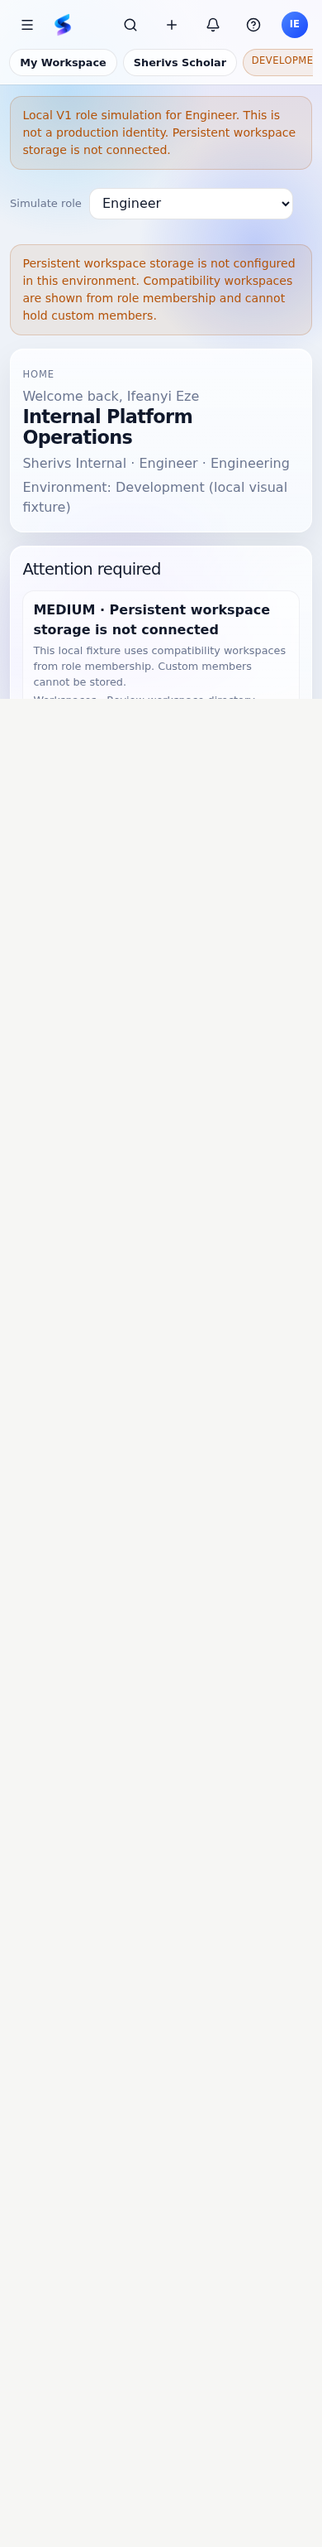
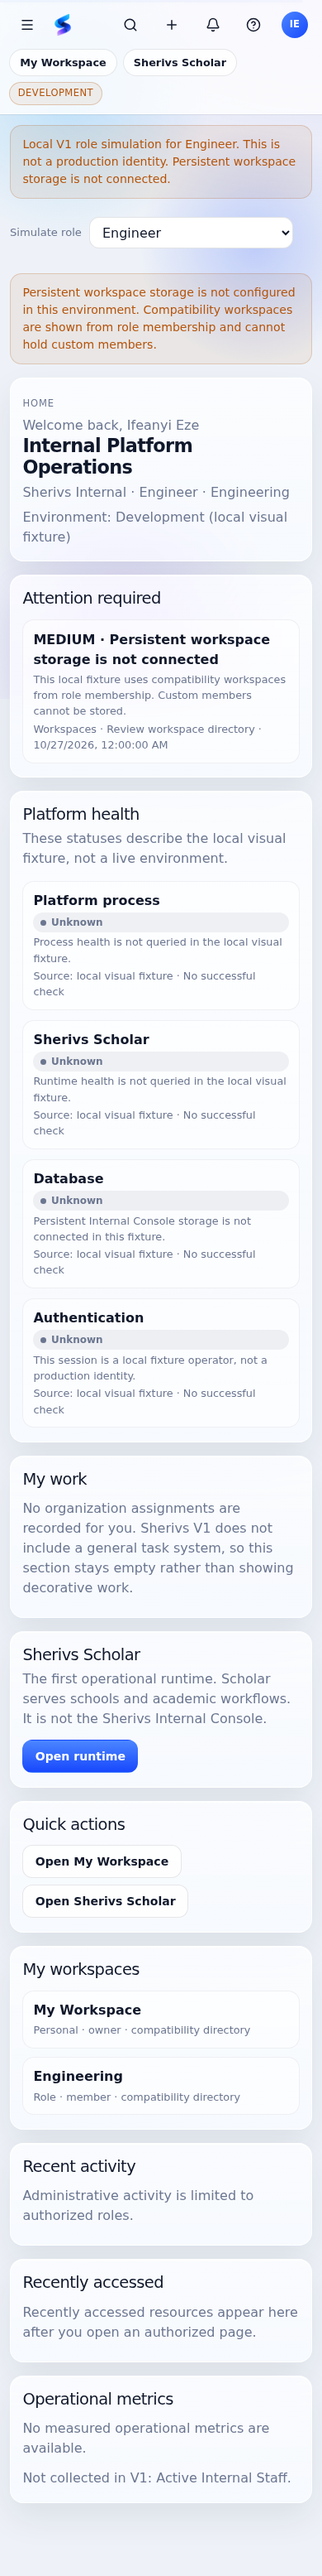
Fix mobile console layout and recapture home screenshots

diff --git a/frontend/src/components/internal-console/console.css b/frontend/src/components/internal-console/console.css
@@ -814,6 +814,11 @@
 }
 
 @media (max-width: 960px) {
+  html:has(.sherivs-console),
+  body:has(.sherivs-console) {
+    height: auto;
+  }
+
   .sherivs-console-orb {
     animation: none;
     filter: none;
@@ -891,10 +896,9 @@
     width: 100%;
     max-width: 100%;
     min-width: 0;
-    overflow-x: auto;
-    flex-wrap: nowrap;
+    overflow: visible;
+    flex-wrap: wrap;
     padding-bottom: 0.1rem;
-    -webkit-overflow-scrolling: touch;
   }
 
   .sherivs-console-chip {
